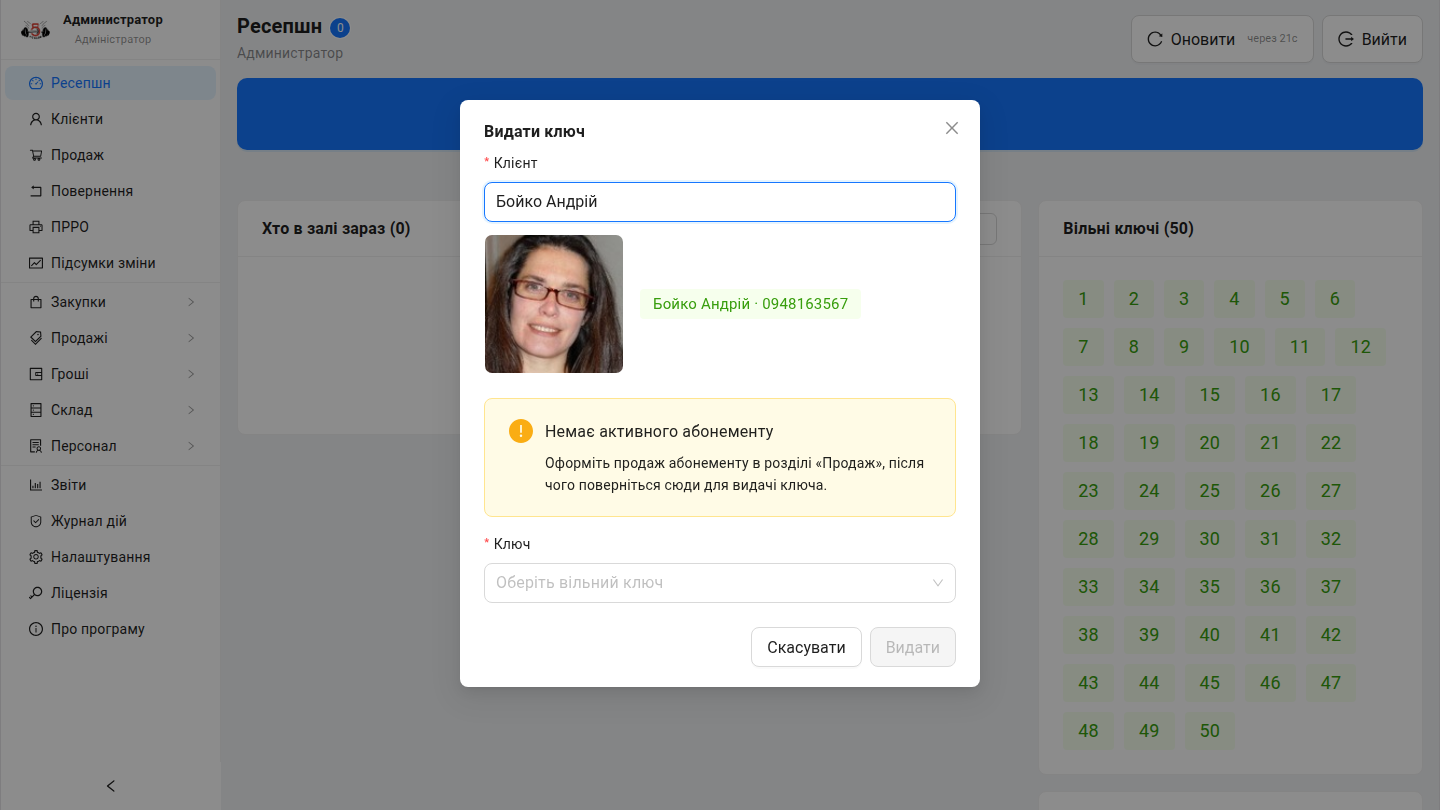
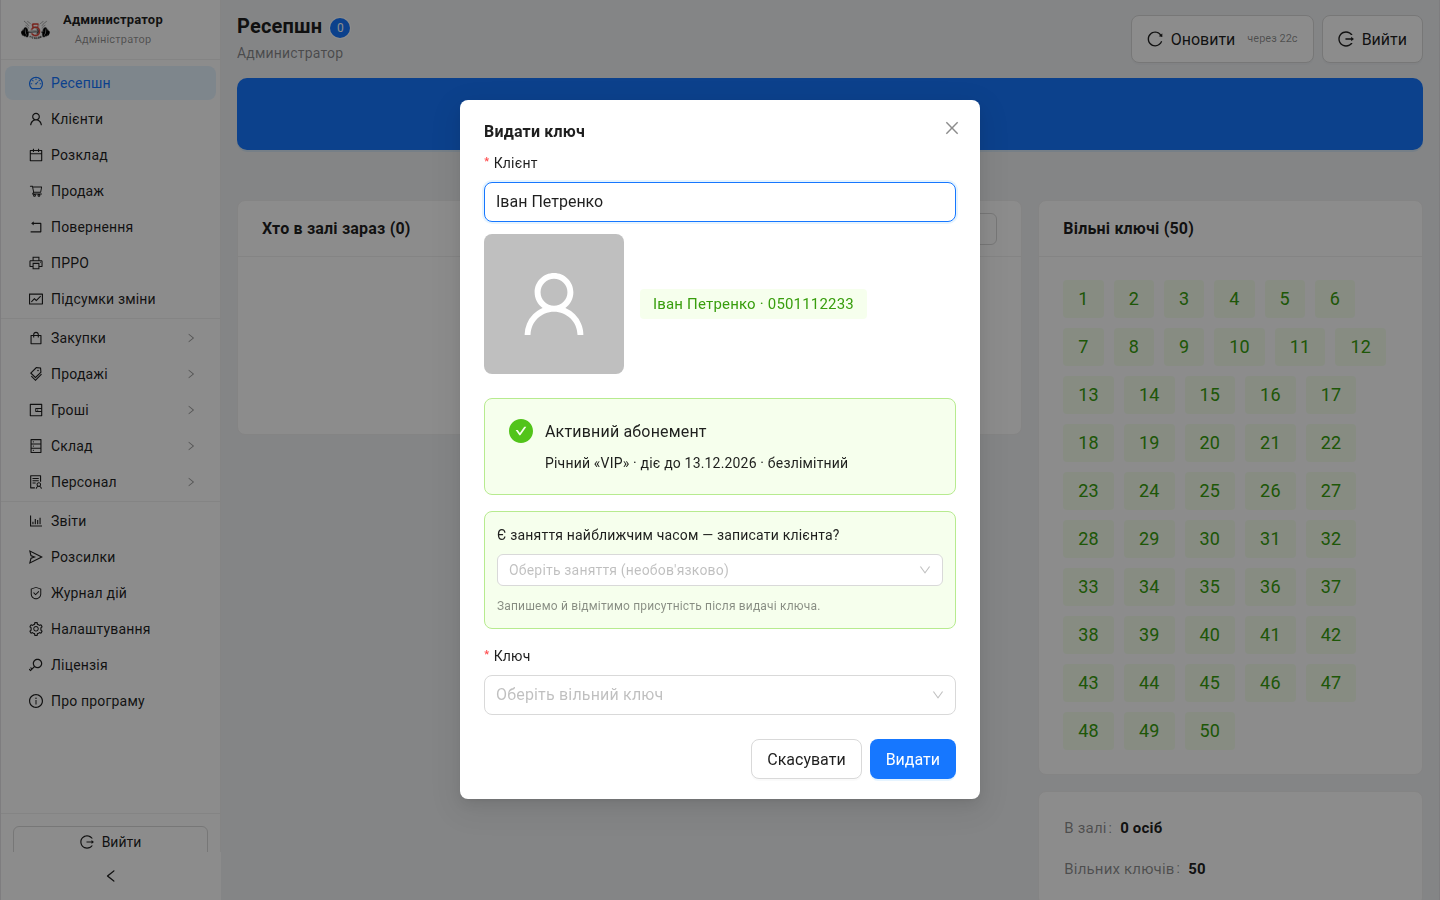
docs: запис на заняття у видачі ключа + Telegram і «Заняття» в картці клієнта
- Блок 2: форма «Видати ключ» пропонує відмітити присутність/записати
  клієнта на найближче групове заняття (оновлено скрін 03)
- Блок 4: додано вкладку «Заняття» та підрозділ «Підключення Telegram»
  (кнопка «Підключити» → посилання на бота); оновлено скрін картки (05),
  додано скрін вікна підключення (35, посилання приховано)

diff --git a/index.html b/index.html
@@ -259,7 +259,7 @@
 <h2 id="блок-2-видати-ключ">Блок 2. Видати ключ</h2>
 <p><strong>Розділ:</strong> «Ресепшн» → велика кнопка <strong>«Видати ключ»</strong></p>
 <p><img src="screenshots/02-reception.png" alt="Екран «Ресепшн»"></p>
-<p>Вікно видачі ключа з вибраним клієнтом і перевіркою абонемента:</p>
+<p>Вікно видачі ключа з вибраним клієнтом, перевіркою абонемента та пропозицією запису на найближче групове заняття:</p>
 <p><img src="screenshots/03-issue-key-modal.png" alt="Вікно «Видати ключ»"></p>
 <ol>
 <li>Натисніть <strong>«Видати ключ»</strong> (на кнопці показано, скільки ключів вільно).</li>
@@ -270,6 +270,11 @@
 <li>Система перевірить абонемент:<ul>
 <li>🟢 <strong>Активний абонемент</strong> — можна видавати ключ.</li>
 <li>🟡 <strong>Немає активного абонемента</strong> — спершу <a href="#блок-6-продати-абонемент">оформіть продаж абонемента</a>, потім поверніться сюди.</li>
+</ul>
+</li>
+<li>Якщо у клієнта незабаром є <strong>групове заняття</strong>, вікно запропонує дію прямо тут (детальніше — <a href="#блок-28-розклад-групових-занять">Блок 28</a>):<ul>
+<li>клієнт <strong>уже записаний</strong> на найближче заняття → з’явиться позначка <strong>«Прийшов»</strong>, щоб одразу відмітити присутність;</li>
+<li>клієнт <strong>не записаний</strong>, але є вільне заняття найближчим часом → список <strong>«Є заняття найближчим часом — записати клієнта?»</strong>; оберіть заняття (необов’язково) — клієнта запишуть і відмітять присутність при видачі ключа.</li>
 </ul>
 </li>
 <li>Виберіть <strong>вільний ключ</strong> зі списку.</li>
@@ -315,7 +320,9 @@
 <ul>
 <li><strong>Контакти:</strong> телефон, email, дата народження, месенджери, згода на обробку, нотатки.</li>
 <li><strong>Номер картки:</strong> номер пластикової картки клієнта. Його можна ввести вручну або <strong>відсканувати сканером</strong> у полі «Номер картки» (режим «Редагувати»). Після прив’язки картку можна сканувати на ресепшені для миттєвого пошуку клієнта й видачі ключа.</li>
+<li><strong>Нагадування Telegram:</strong> ознака, чи підключив клієнт бота, і кнопка підключення (див. нижче).</li>
 <li><strong>Вкладка «Абонементи»</strong> — усі абонементи клієнта, їх статус, дата дії «до», залишок відвідувань. Тут же кнопки <a href="#блок-7-заморозити--розморозити-абонемент">«Заморозити» / «Розморозити»</a>.</li>
+<li><strong>Вкладка «Заняття»</strong> — майбутні записи клієнта на <a href="#блок-28-розклад-групових-занять">групові заняття</a>; звідси можна <strong>відписати</strong> його від окремого заняття або від усіх одразу.</li>
 <li><strong>Вкладка «Відвідування»</strong> — історія: дата, час приходу/виходу, ключ, тривалість.</li>
 </ul>
 <p><strong>Редагувати дані:</strong> кнопка <strong>«Редагувати»</strong> вгорі картки → змініть поля → <strong>«Зберегти»</strong>.</p>
@@ -344,6 +351,16 @@
 <td>Використані всі відвідування</td>
 </tr>
 </tbody></table>
+<h3 id="підключення-telegram-у-картці">Підключення Telegram для нагадувань</h3>
+<p>Щоб клієнт отримував нагадування від бота (про заняття, закінчення абонемента, привітання з ДН — <a href="#блок-29-telegram-бот-і-нагадування-клієнтам">Блок 29</a>), його картку треба <strong>прив’язати до Telegram</strong>. У полі <strong>«Нагадування Telegram»</strong>:</p>
+<ol>
+<li>Натисніть <strong>«Підключити»</strong> — відкриється вікно з персональним посиланням на бота.</li>
+<li><p><img src="screenshots/35-telegram-connect.png" alt="Вікно підключення Telegram"></p></li>
+<li>Надішліть це посилання клієнту (кнопка <strong>«Скопіювати посилання»</strong>) або попросіть його відкрити бота й натиснути <strong>Start</strong>. Після цього картка прив’яжеться до його Telegram, а в полі відобразиться <strong>«Підключено»</strong> з кнопкою відключення.</li>
+</ol>
+<blockquote>
+<p>Бот <strong>не може написати клієнту першим</strong> — тому без цього кроку (клієнт сам натискає «Start») нагадування не надсилаються. Увімкнути самого бота й задати токен потрібно заздалегідь у <a href="#блок-29-telegram-бот-і-нагадування-клієнтам">«Налаштування → Telegram»</a>.</p>
+</blockquote>
 <hr>
 <h2 id="блок-5-фото-клієнта">Блок 5. Фото клієнта</h2>
 <p>У картці клієнта, у блоці фото:</p>
